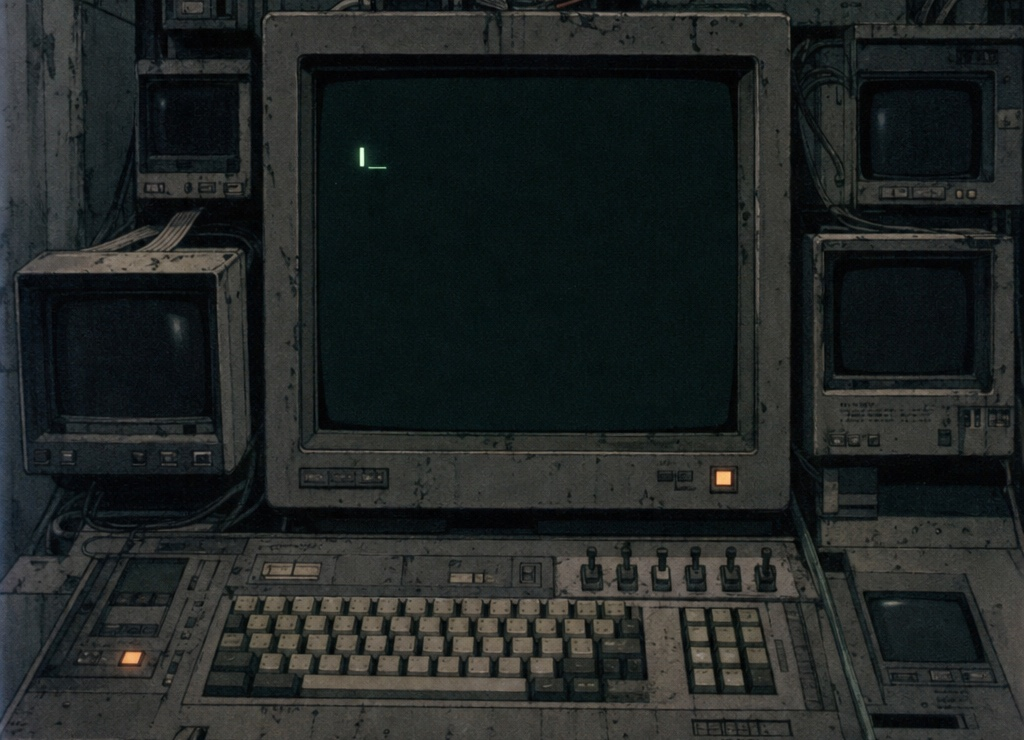
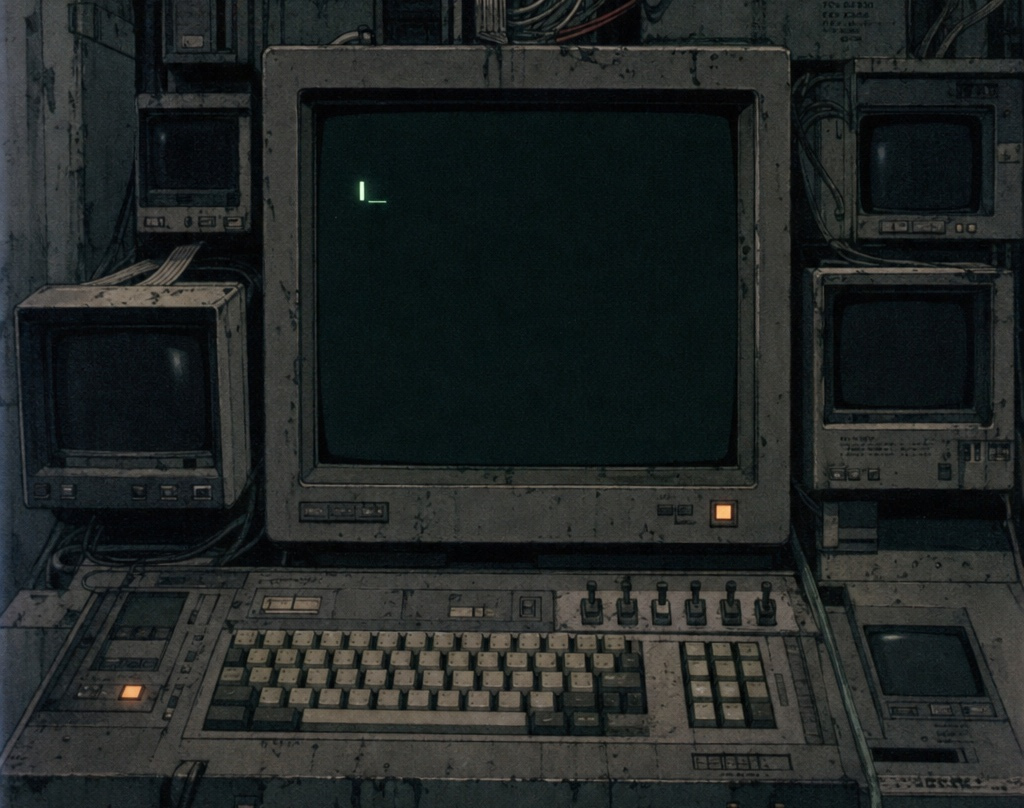
Recrop both images: taller header, square mess-hall still
Header 1024x740 -> 1024x808, more room above the CRT and below the console.
Renders 479.8px in the 38rem column, just inside the 480px cap, so nothing
gets cover-cropped away.

Mess-hall still cropped to a 1008 square centred on the figure and chair.

diff --git a/posts/2026-08-29-start-creating-ai-videos.md b/posts/2026-08-29-start-creating-ai-videos.md
@@ -119,7 +119,7 @@ At some point, I asked Claude Code to create a skill about video editing with `f
 
 This is why I call it the training process. Claude Code learns what I want and how to get it, then remembers it in skills. I never touch those skill-files. 
 
-![A dark anime interior of a ship mess room. A crew member slumps forward onto a metal table, face down, lit from the right by a single red alarm lamp. An empty chair sits in front of the table and an open black doorway behind.](/images/aivideo-still-messhall.jpg)
+![A dark anime interior of a ship mess room. A crew member slumps forward onto a metal table, face down, lit from the right by a single red alarm lamp. An empty chair stands in front of the table, an open black doorway behind.](/images/aivideo-still-messhall.jpg)
 
 *One of the 16 stills. This one did not make it - the composition was wrong, a second attempt replaced it, and $0.12 went in the bin. That is the cheap kind of mistake.*
 
